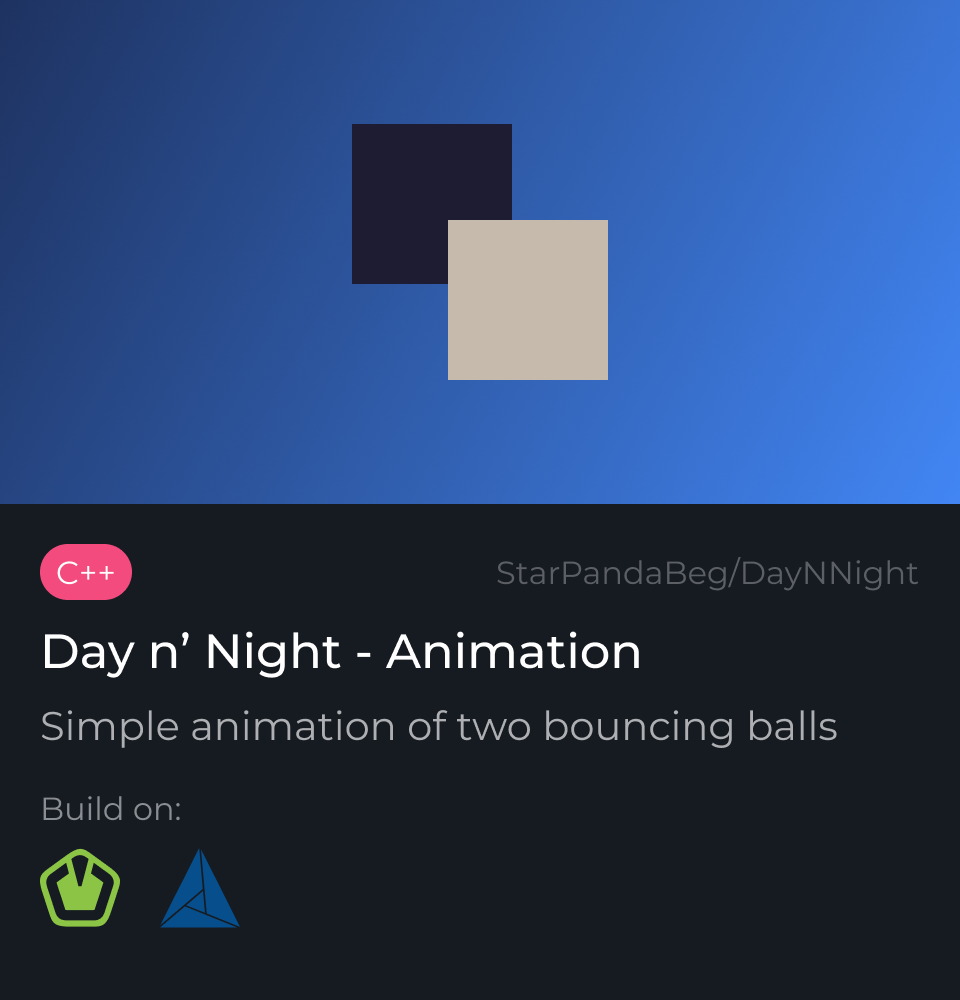
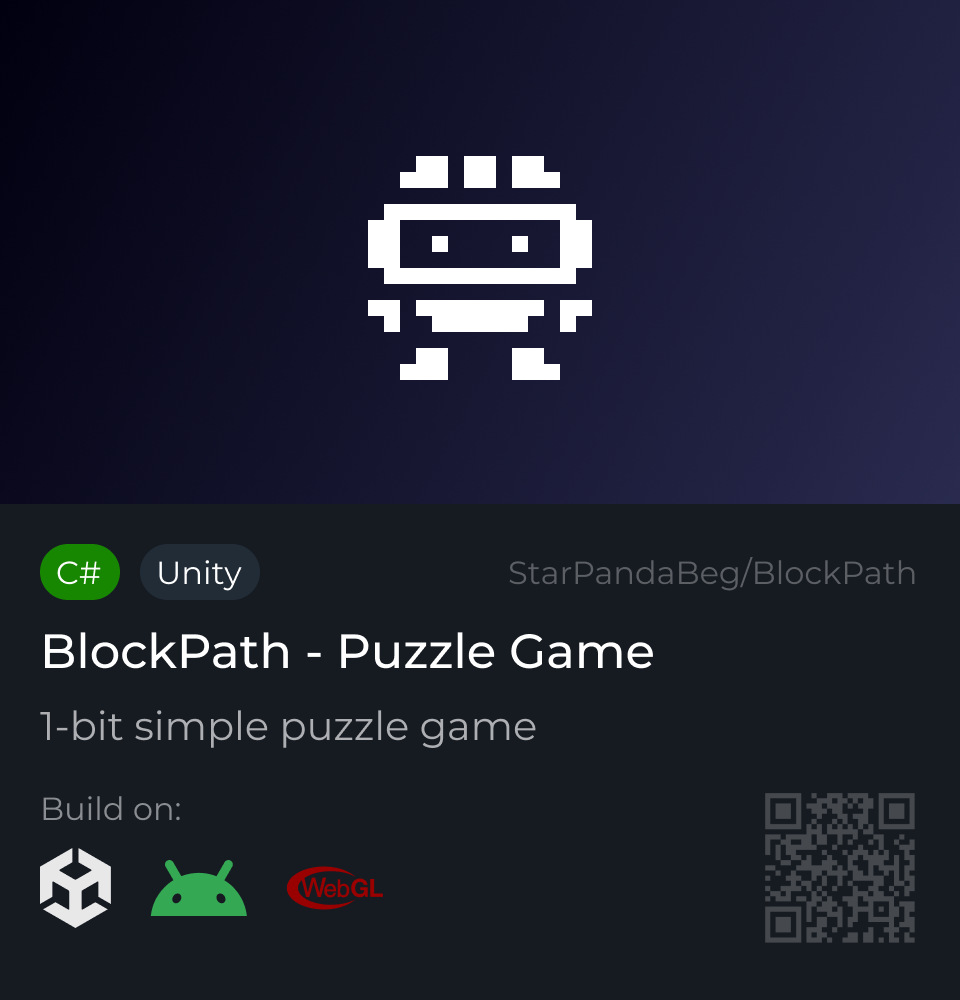
Update

diff --git a/README.md b/README.md
@@ -32,22 +32,26 @@
 <h2>🌐 Websites</h2>
 <p>
   <a href="https://xn-----180-4nfflsib2fci4g2i6b.xn--p1ai/" alt="'Dream' Furniture E-Commerce" title="'Dream' Furniture E-Commerce">
-    <img src=".github/web-card-1.png" width="300"/>
+    <img src=".github/web-card-1.png" width="270"/>
   </a>
   &nbsp;
   <a href="https://github.com/StarPandaBeg/mood-commerce" alt="'Mood' Cloth E-Commerce" title="'Mood' Cloth E-Commerce">
-    <img src=".github/web-card-2.png" width="300"/>
+    <img src=".github/web-card-2.png" width="270"/>
   </a>
 </p>
 
 <h2>🎮 Games</h2>
 <p>
-  <a href="https://github.com/StarPandaBeg/DayNNight" alt="Day n' Night - Animation" title="Day n' Night - Animation">
-    <img src=".github/games-card-1.png" width="300"/>
+  <a href="https://github.com/StarPandaBeg/BlockPath" alt="BlockPath - Puzzle Game" title="BlockPath - Puzzle Game">
+    <img src=".github/games-card-1.png" width="270"/>
   </a>
   &nbsp;
   <a href="https://github.com/StarPandaBeg/ChallengePack" alt="ChallengePack - Mod for Buckshot Roulette" title="ChallengePack - Mod for Buckshot Roulette">
-    <img src=".github/games-card-2.png" width="300"/>
+    <img src=".github/games-card-2.png" width="270"/>
+  </a>
+  &nbsp;
+  <a href="https://github.com/StarPandaBeg/DayNNight" alt="Day n' Night - Animation" title="Day n' Night - Animation">
+    <img src=".github/games-card-3.png" width="270"/>
   </a>
 </p>
 
